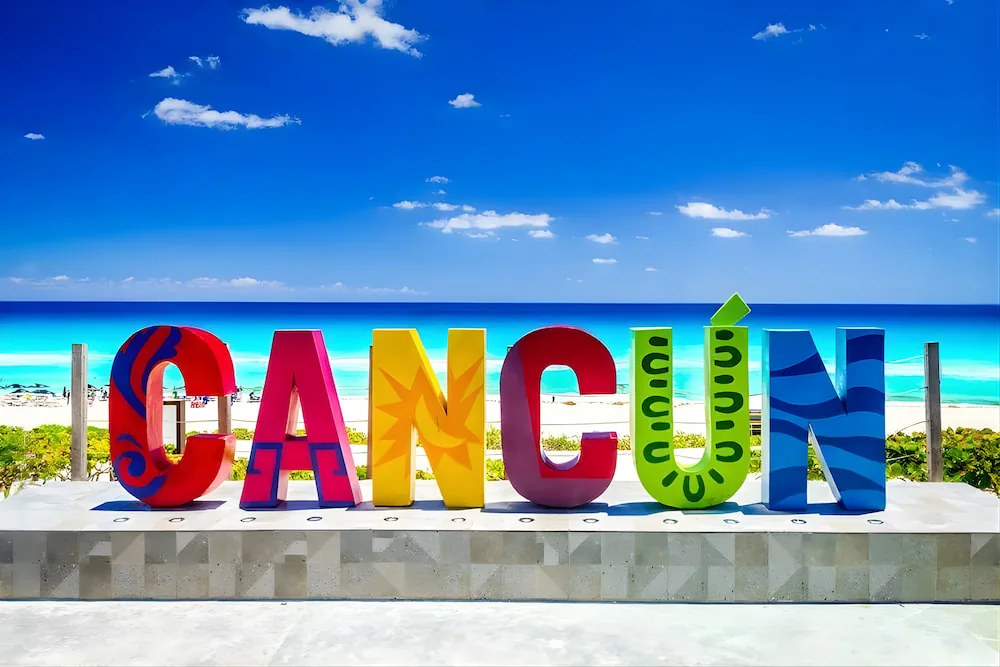
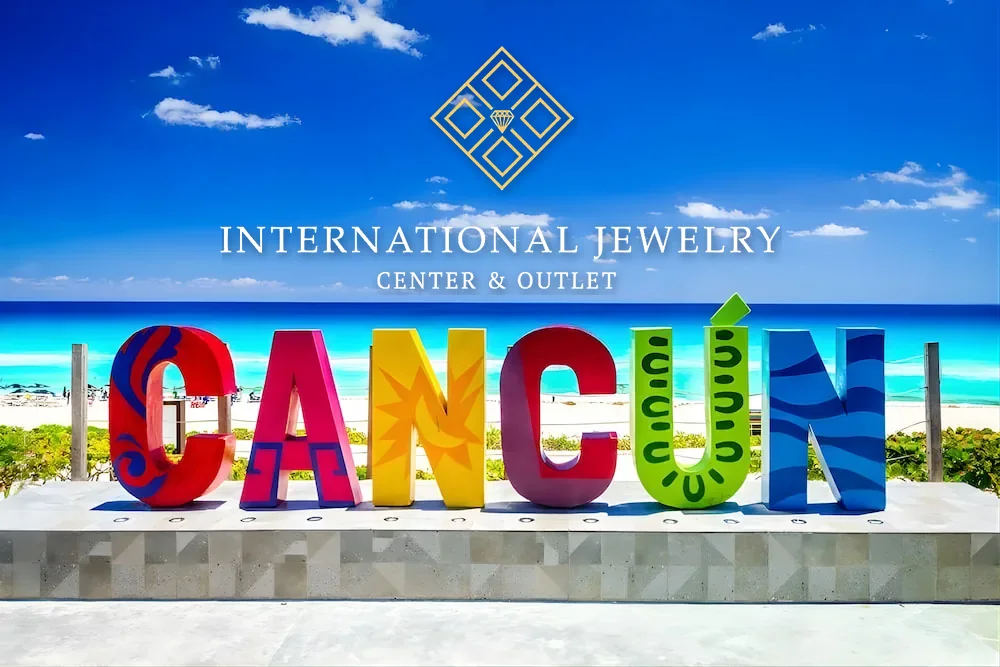
v30.7: horarios como opciones en los Shopping Tours, Todo incluye excursiones, mejoras de fotos en Cancún
- Cada horario del Shopping Tour (Cancún 2, Playa del Carmen 3) es una opción dentro de la ficha,
  como los programas de delfines; el horario elegido se ve en el carrito y en Comparar
- La categoría Todo ya muestra también las excursiones (al final, en su orden)
- Cancún: logo de International Jewelry sobre el cielo de la foto principal, tacos grandes y
  con color más cálido, foto del tequila completa

Claude-Session: https://claude.ai/code/session_01CwU2AHXYecY3849ZHBDA9x

Changed region(s): [[0.217, 0.3298, 0.806, 0.4498], [0.434, 0.06, 0.589, 0.2999]]

diff --git a/index.html b/index.html
@@ -12,7 +12,7 @@
 <link rel="icon" type="image/png" href="icon-192.png">
 <link rel="apple-touch-icon" href="icon-192.png">
 <script>(function(){var t;try{t=localStorage.getItem('gs-theme')}catch(e){}if(t!=='light'&&t!=='dark')t=(window.matchMedia&&matchMedia('(prefers-color-scheme: dark)').matches)?'dark':'light';document.documentElement.setAttribute('data-theme',t);})();</script>
-<title>Gift Studio v30.6</title>
+<title>Gift Studio v30.7</title>
 <link rel="preconnect" href="https://fonts.googleapis.com">
 <link rel="preconnect" href="https://fonts.gstatic.com" crossorigin>
 <link href="https://fonts.googleapis.com/css2?family=Playfair+Display:wght@600;700&family=Poppins:ital,wght@0,400;0,500;0,600;1,700&display=swap" rel="stylesheet">
@@ -1125,6 +1125,7 @@ body.is-vendor .notice.vnote{display:flex}
 .ph-sc_cun_sq{background-image:url(img/sc_cun_sq.webp);aspect-ratio:1/1}
 .ph-sc_ij{background-image:url(img/sc_ij.webp)}
 .ph-sc_teq{background-image:url(img/sc_teq.webp)}
+.gal .ph-sc_teq{grid-column:1 / -1;aspect-ratio:1142/1087!important}
 .ph-sc_tacos{background-image:url(img/sc_tacos.webp)}
 .ph-sc_crafts{background-image:url(img/sc_crafts.webp)}
 .ph-sc_bags{background-image:url(img/sc_bags.webp)}
@@ -1602,6 +1603,18 @@ const EXC_DESC = {
 };
 // Cada tour es una sola tarjeta; los niños son un boleto ligado (oculto) que se controla desde adentro.
 // Si no hay precio de niño, se usa el de adulto.
+// v30.7 · horarios de los Shopping Tours: cada horario es una opción dentro de la ficha (igual que los programas de delfines)
+const SHOP_SLOTS = { 'shop-cancun': ['10:40 am – 3:30 pm', '3:40 pm – 8:30 pm'], 'shop-playa': ['10 am – 3 pm', '12 pm – 5 pm', '2 pm – 7 pm'] };
+const SLOT_OF = {};
+for (const [base, slots] of Object.entries(SHOP_SLOTS)) {
+  const row = EXC.find(r => r[1] === base), d = EXC_DESC[base];
+  slots.forEach((sl, k) => {
+    const id = k ? `${base}-${k + 1}` : base;
+    if (k) { EXC.push([row[0], id, ...row.slice(2)]); EXC_ES[id] = EXC_ES[base]; if (EXC_VIDEO[base]) EXC_VIDEO[id] = EXC_VIDEO[base]; }
+    EXC_DESC[id] = { ...d, inc: { es: d.inc.es.map(x => /^Todos los días/.test(x) ? 'Horario: ' + sl : x), en: d.inc.en.map(x => /^Every day/.test(x) ? 'Schedule: ' + sl : x) } };
+    SLOT_OF['x-' + id] = sl;
+  });
+}
 for (const [ph, id, sub, nm, tk, reg, promo, kReg, kPromo] of EXC) {
   const es = EXC_ES[id] || nm;
   ITEMS.push({
@@ -1811,9 +1824,10 @@ for (const [id, ph, ph2] of [['mani50', 'mani'], ['mani80', 'mani2'], ['pedi50',
   const it = ITEMS.find(i => i.id === id); if (it) { it.photo = ph; if (ph2) it.photo2 = ph2; }
 }
 // v30.5 · Shopping Tour Cancún: letras de Cancún de portada, galería del recorrido, la joyería ancha y el logo de International Jewelry
-Object.assign(ITEMS.find(i => i.id === 'x-shop-cancun'), { photo: 'sc_cun_sq', sheetPhoto: 'sc_cun', photo2: 'sc_ij', gallery: ['sc_teq', 'sc_tacos', 'sc_crafts', 'sc_bags'], logo: 'img/ij_logo.webp', logoSheet: true });
+// v30.7 · el logo de International Jewelry va dentro de la foto principal (sobre el cielo); los tacos grandes y el tequila completo
+for (const it of ITEMS.filter(i => /^x-shop-cancun(-\d)?$/.test(i.id))) Object.assign(it, { photo: 'sc_cun_sq', sheetPhoto: 'sc_cun', photo2: 'sc_ij', gallery: ['sc_tacos', 'sc_crafts', 'sc_bags', 'sc_teq'] });
 // v30.6 · Shopping Tour Playa del Carmen: Quinta Avenida, galería, la tienda de Matises & Co. y su logo sobre su rosa de marca
-Object.assign(ITEMS.find(i => i.id === 'x-shop-playa'), { photo: 'pc_5ta_sq', sheetPhoto: 'pc_5ta', photo2: 'pc_matises', gallery: ['pc_toys', 'pc_jeweler', 'pc_eagle'], logo: 'img/matises_logo.webp', logoSheet: true, logoBg: '#EB4DA4' });   // el logo solo en la ficha (en la tarjeta no se alcanza a leer)
+for (const it of ITEMS.filter(i => /^x-shop-playa(-\d)?$/.test(i.id))) Object.assign(it, { photo: 'pc_5ta_sq', sheetPhoto: 'pc_5ta', photo2: 'pc_matises', gallery: ['pc_toys', 'pc_jeweler', 'pc_eagle'], logo: 'img/matises_logo.webp', logoSheet: true, logoBg: '#EB4DA4' });   // el logo solo en la ficha (en la tarjeta no se alcanza a leer)
 // Duraciones: una sola tarjeta por tratamiento en el catálogo; las demás duraciones viven dentro de la tarjeta
 // (el masaje de 80 min y el masaje en pareja de 80 min se quedan como tarjetas propias)
 const DURS = [
@@ -1821,16 +1835,19 @@ const DURS = [
   ['neck25', 'neck50'], ['foot25', 'foot50'], ['scalp25', 'scalp50'], ['pedi50', 'pedi80'], ['mani50', 'mani80'],
   ['x-chichen-deluxe', 'x-chichen'], ['x-primax', 'x-interax', 'x-harmony'],   // v26: variantes de tour
   ['x-tulum-mayan', 'x-tulum-half'], ['bali-south', 'bali-north'],   // v27
+  ['x-shop-cancun', 'x-shop-cancun-2'], ['x-shop-playa', 'x-shop-playa-2', 'x-shop-playa-3'],   // v30.7: horarios
 ];
 const DUR_MIN = { massage25: 25, massage: 50, massage80: 80, couples: 50, couples80: 80, hydro: 50, hydro80: 80,
   neck25: 25, neck50: 50, foot25: 25, foot50: 50, scalp25: 25, scalp50: 50, pedi50: 50, pedi80: 80, mani50: 50, mani80: 80 };
-const DUR_ONLY = ['massage25', 'hydro80', 'neck25', 'foot25', 'scalp25', 'pedi80', 'mani80', 'x-chichen', 'x-interax', 'x-harmony', 'x-tulum-half', 'bali-north'];
+const DUR_ONLY = ['massage25', 'hydro80', 'neck25', 'foot25', 'scalp25', 'pedi80', 'mani80', 'x-chichen', 'x-interax', 'x-harmony', 'x-tulum-half', 'bali-north', 'x-shop-cancun-2', 'x-shop-playa-2', 'x-shop-playa-3'];
 // v26 · etiquetas de variantes que no son duración
 const VAR_LBL = { 'x-chichen-deluxe': { en: 'Deluxe', es: 'Deluxe' }, 'x-chichen': { en: 'Classic', es: 'Clásico' },
   'x-tulum-mayan': { en: 'Adventure', es: 'Adventure' }, 'x-tulum-half': { en: 'Half day', es: 'Medio día' },
   'bali-south': { en: 'South Beach', es: 'Playa Sur' }, 'bali-north': { en: 'North Beach · Preferred', es: 'Playa Norte · Preferred' },
   'x-primax': { en: 'Primax', es: 'Primax' }, 'x-interax': { en: 'Interax', es: 'Interax' }, 'x-harmony': { en: 'Harmony', es: 'Harmony' } };
 const VAR_HEAD = { 'x-chichen-deluxe': { en: 'Tour type', es: 'Tipo de tour' }, 'x-tulum-mayan': { en: 'Tour type', es: 'Tipo de tour' }, 'bali-south': { en: 'Beach', es: 'Playa' }, 'x-primax': { en: 'Program', es: 'Programa' } };
+for (const id in SLOT_OF) VAR_LBL[id] = { en: SLOT_OF[id], es: SLOT_OF[id] };
+VAR_HEAD['x-shop-cancun'] = VAR_HEAD['x-shop-playa'] = { en: 'Schedule', es: 'Horario' };
 const varLbl = id => DUR_MIN[id] ? `${DUR_MIN[id]} min` : VAR_LBL[id] ? VAR_LBL[id][S.lang] : itemById(id).name[S.lang];
 for (const id of DUR_ONLY) { const it = ITEMS.find(i => i.id === id); if (it) it.durOnly = true; }
 const durGroup = id => DURS.find(g => g.includes(id));
@@ -2133,7 +2150,8 @@ function kindSummary(it, s) {
 function massageUnits(cart) { return cart.order.reduce((n, id) => { const it = itemById(id); return it.kinds ? n + cart.sel[id].qty * (it.unit || 1) : n; }, 0); }
 function freeHydros(cart) { const h = cart.sel.hydro ? cart.sel.hydro.qty : 0; return Math.min(h, massageUnits(cart)); }
 function effQty(cart, id) { const q = cart.sel[id].qty; return id === 'hydro' ? q - freeHydros(cart) : q; }
-function subOf(it) { if (it.kid && S.cart.sel[it.id]) return paxText(S.cart.sel[it.id].qty, kidsOf(it)); if (it.sub_) return it.sub_[S.lang]; return (S.mode === 'reg' && it.subReg ? it.subReg : it.sub)[S.lang]; }
+const slotTxt = id => SLOT_OF[id] ? ' · ' + SLOT_OF[id] : '';   // v30.7 · el horario elegido se ve junto a las personas
+function subOf(it) { if (it.kid && S.cart.sel[it.id]) return paxText(S.cart.sel[it.id].qty, kidsOf(it)) + slotTxt(it.id); if (it.sub_) return it.sub_[S.lang]; return (S.mode === 'reg' && it.subReg ? it.subReg : it.sub)[S.lang]; }
 const optOrder = it => it.opts.map((o, i) => ({ o, i })).sort((a, b) => a.o.pay - b.o.pay);
 
 // Con VIP: cada unidad (cada masaje, cada cena) arranca con lo máximo que acepta en Leisure Cash.
@@ -2553,8 +2571,8 @@ function renderCatalog() {
   $('subchips').innerHTML = subs ? subs.map(c => `<button class="chip" data-sub="${c.id}" aria-pressed="${S.sub === c.id}">${c.name[S.lang]}</button>`).join('') : '';
   $('subchips').style.display = subs ? '' : 'none';
   const subKey = i => i.exc ? i.sub : i.grp;
-  let list = ITEMS.filter(i => !i.hidden && !i.durOnly && (S.cat === 'all' ? !i.exc && (!i.pkg || pkgToday(i)) : i.cat === S.cat && (!subs || S.sub === 'all' || subKey(i) === S.sub)));
-  if (S.cat === 'all') list = [...list.filter(i => isTop(i.id)).sort((a, b) => topIdx(a.id) - topIdx(b.id)), ...list.filter(i => !isTop(i.id))];
+  let list = ITEMS.filter(i => !i.hidden && !i.durOnly && (S.cat === 'all' ? (!i.pkg || pkgToday(i)) : i.cat === S.cat && (!subs || S.sub === 'all' || subKey(i) === S.sub)));
+  if (S.cat === 'all') list = [...list.filter(i => isTop(i.id)).sort((a, b) => topIdx(a.id) - topIdx(b.id)), ...list.filter(i => !isTop(i.id) && !i.exc), ...list.filter(i => !isTop(i.id) && i.exc).sort((a, b) => excRank(a.id) - excRank(b.id))];
   if (S.cat === 'excursions') list.sort((a, b) => excRank(a.id) - excRank(b.id));
   // primero lo que alcanza, al final lo gris (se mantiene el orden dentro de cada grupo)
   // Lo que alcanza va primero. Lo que no alcanza se agrupa en una sección plegable al final;
@@ -2996,7 +3014,7 @@ function compareSheet() {
     if (it.kidOf) continue;
     if (it.kid) {
       const k = sp[it.kid] || { lc: 0, cash: 0 }, a = sp[id];
-      rows.push(`<tr><td>${it.name[L]} <small>${paxText(s.qty, kidsOf(it))}</small></td><td>${money(lineRegAll(it, s))}</td><td class="vip">${vipCell({ lc: a.lc + k.lc, cash: a.cash + k.cash })}</td></tr>`);
+      rows.push(`<tr><td>${it.name[L]} <small>${paxText(s.qty, kidsOf(it))}${slotTxt(id)}</small></td><td>${money(lineRegAll(it, s))}</td><td class="vip">${vipCell({ lc: a.lc + k.lc, cash: a.cash + k.cash })}</td></tr>`);
       continue;
     }
     const kind = it.kinds ? ` <small>${kindSummary(it, s)}</small>` : '';
@@ -3417,7 +3435,7 @@ function offerLines() {
   for (const id of S.cart.order) {
     const it = itemById(id), s = S.cart.sel[id];
     if (it.kidOf || (it.vipOnly && S.mode === 'reg')) continue;
-    const sub = id === 'cbd' ? '' : it.kid ? paxText(s.qty, kidsOf(it)) : it.kinds && !it.noKind ? kindSummary(it, s).replace(/<br>/g, ' · ') : '';
+    const sub = id === 'cbd' ? '' : it.kid ? paxText(s.qty, kidsOf(it)) + slotTxt(id) : it.kinds && !it.noKind ? kindSummary(it, s).replace(/<br>/g, ' · ') : '';
     rows.push({ photo: it.photo, name: `${s.qty > 1 && !it.kid ? s.qty + '× ' : ''}${it.name[L]}`, sub, price: money((it.kid ? lineRegAll(it, s) : lineReg(it, s)) - lineCoupon(it, s)), strike: S.mode === 'vip' && hasDiscount(it) });
   }
   return rows;
@@ -3683,7 +3701,7 @@ function snapshot() {
     return { id, qty: sl.qty, kinds: it.kinds ? personKinds(it, sl) : undefined, cbd: it.kinds ? personCbd(it, sl) : undefined, manualOpt: sl.manual ? sl.opt : undefined,
       vipUnits: (v.units[id] || []).map(i => `${it.opts[i].pay}/${it.opts[i].b}`), regular: lineReg(it, sl) }; });
   return {
-    app: 'Gift Studio v30.6', time: new Date().toISOString(), lang: S.lang, mode: S.mode,
+    app: 'Gift Studio v30.7', time: new Date().toISOString(), lang: S.lang, mode: S.mode,
     guestBudget: hasBud() ? S.will : null, vouchers: S.step / VOUCHER, voucherValue: S.step, 
     cert: S.cart.cert, cart: lines, wish: S.wish,
     vip: { guestPays: v.cost, copays: v.pay, budgetUsed: v.used, overflow: v.overflow, left: S.will - v.cost, regularValue: v.value },
